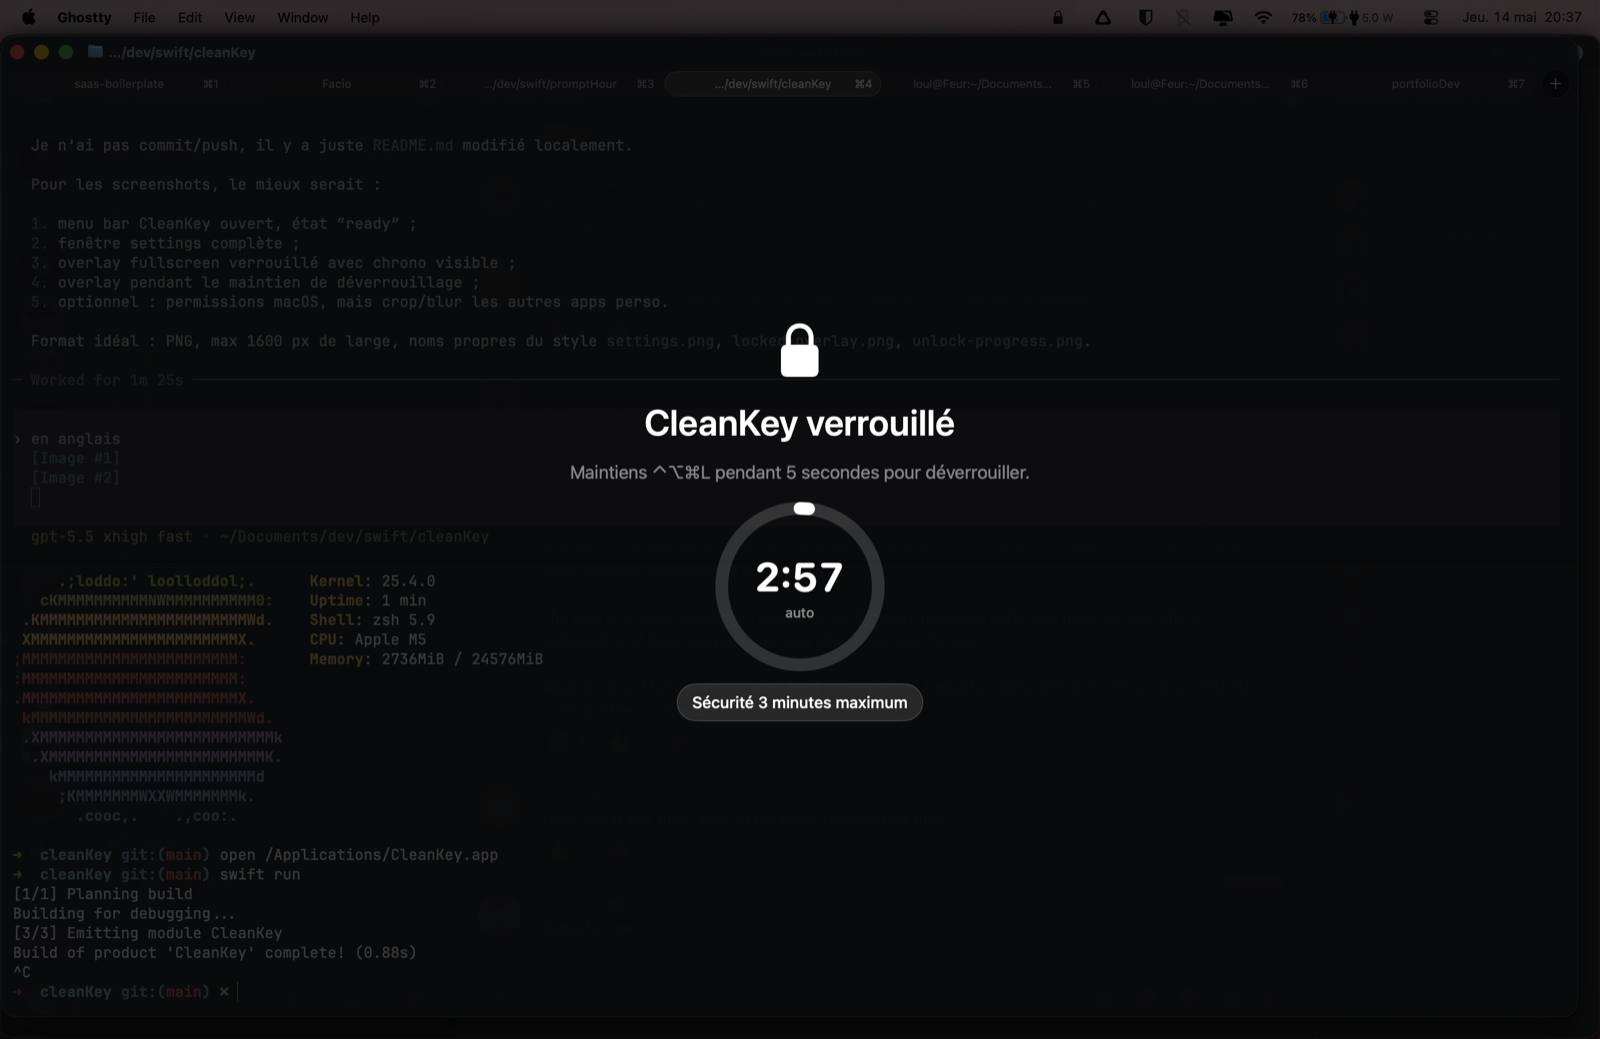
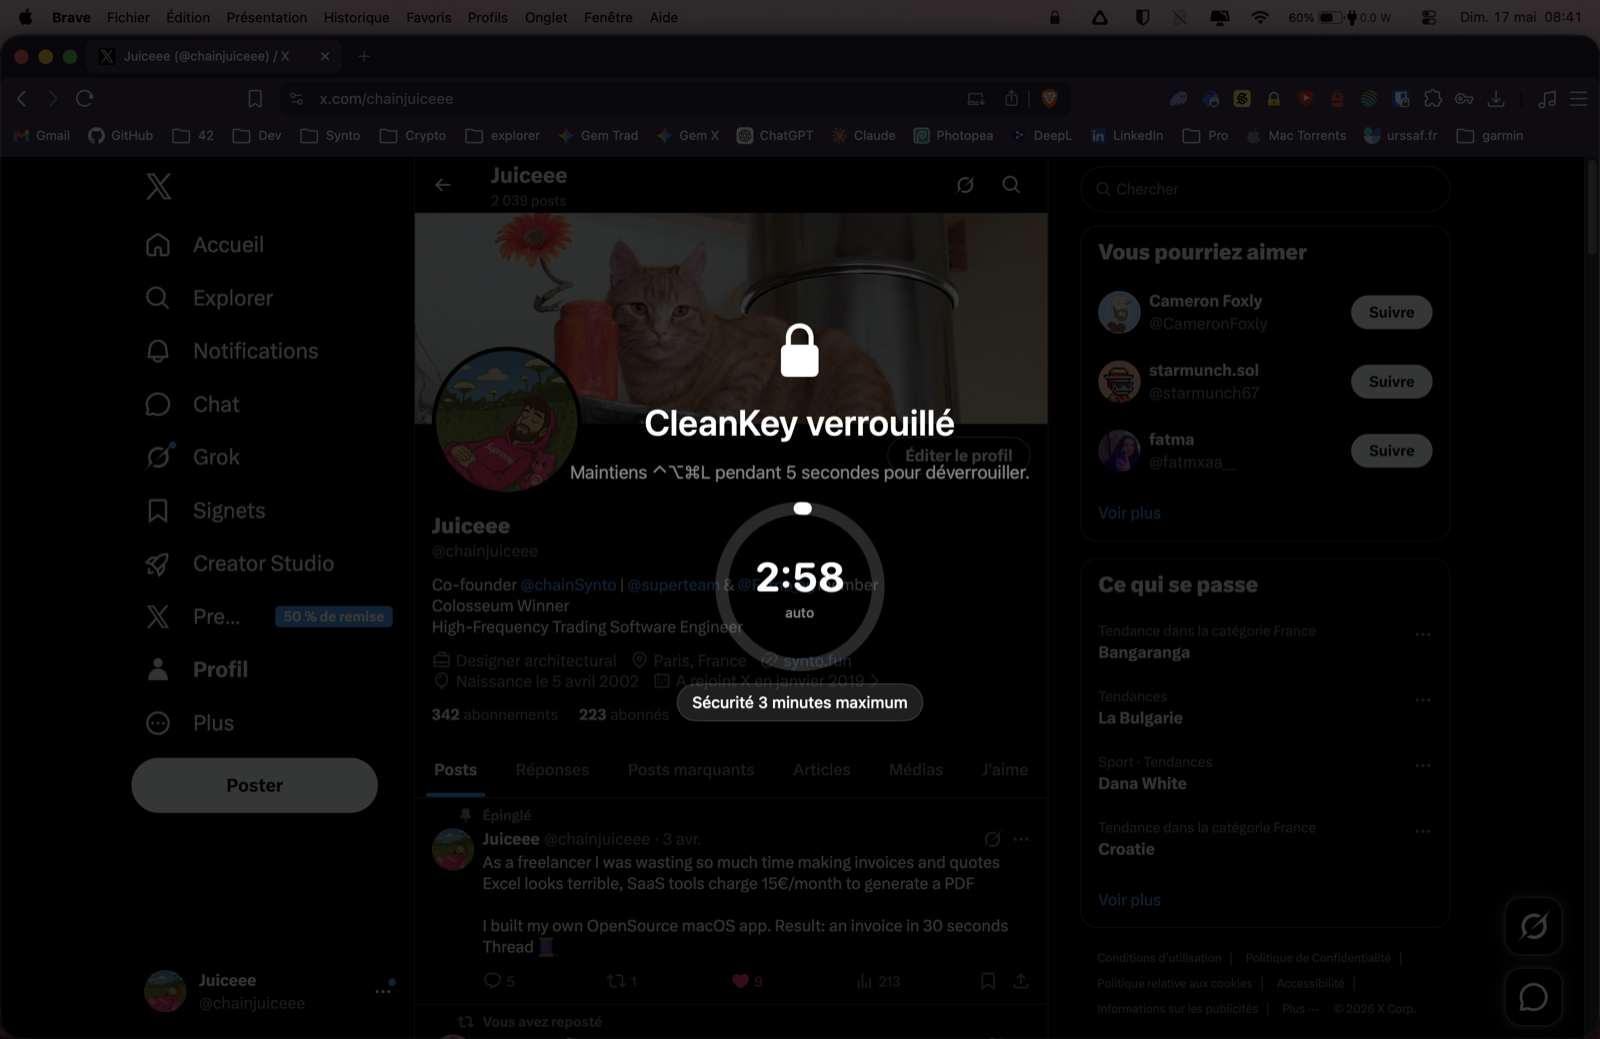
docs: refresh readme badge and screenshots

diff --git a/README.md b/README.md
@@ -2,7 +2,7 @@
 
 [![CI](https://github.com/Juiiceee/cleanKey/actions/workflows/ci.yml/badge.svg)](https://github.com/Juiiceee/cleanKey/actions/workflows/ci.yml)
 [![Release Please](https://github.com/Juiiceee/cleanKey/actions/workflows/release-please.yml/badge.svg)](https://github.com/Juiiceee/cleanKey/actions/workflows/release-please.yml)
-[![Latest release](https://img.shields.io/github/v/release/Juiiceee/cleanKey?label=release)](https://github.com/Juiiceee/cleanKey/releases)
+[![Latest release](https://img.shields.io/github/v/release/Juiiceee/cleanKey?label=release&cacheSeconds=300)](https://github.com/Juiiceee/cleanKey/releases)
 [![License: MIT](https://img.shields.io/badge/license-MIT-blue.svg)](LICENSE)
 
 CleanKey is a lightweight macOS menu bar app that temporarily blocks keyboard, mouse and trackpad input so you can clean your keyboard without triggering shortcuts, clicks or accidental text input.